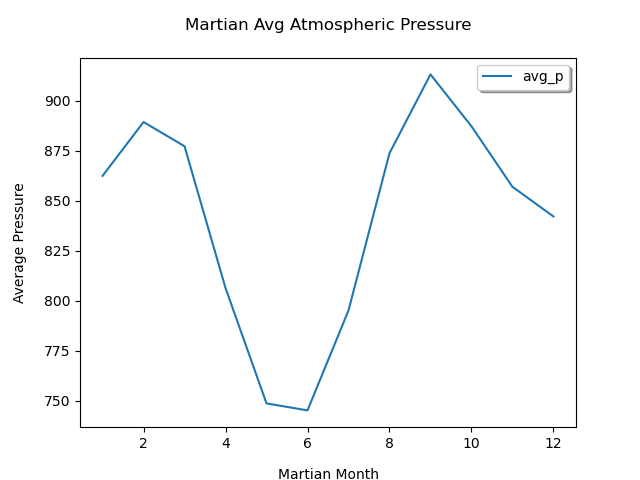
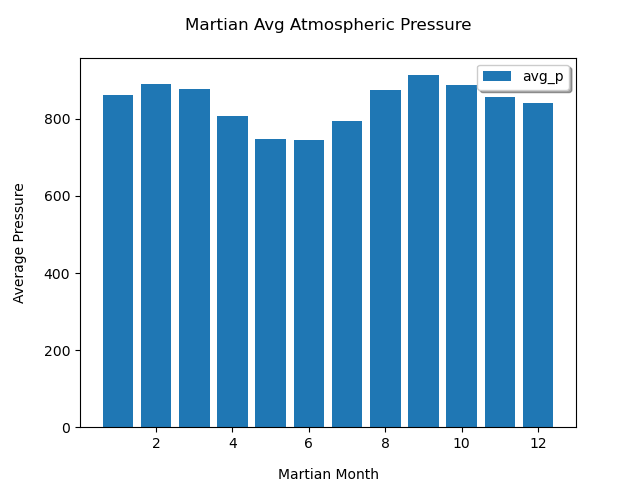
Final Updates

diff --git a/README.md b/README.md
@@ -24,6 +24,8 @@ In the folder *mars_web_analysis* are the completed challenge files.
 
 # **Results**
 
+*Deliverable 1: Mars News*
+
 Article titles and preview text were successfully scraped and stored into a pyton list. Below are the first three articles.
 
     [
@@ -40,6 +42,26 @@ Article titles and preview text were successfully scraped and stored into a pyto
             "preview": "The agency\u2019s Perseverance rover will establish the first sample depot on Mars."
     ]
 
+*Deliverable 2: Mars Weather*
+
+Two files are provided for this part of the challenge. One of them reads the table using pandas read.html to collect the data into a dataframe. The other uses a loop to iterate through the scraped data in order to create a python list and then dataframe.
+
+Graphs were then created and questions answered from the analysis.
+
+1. How many months exist on Mars? **12**
+2. How many Martian (and not Earth) days worth of data exist in the scraped dataset? **1867**
+3. What are the coldest and the warmest months on Mars (at the location of Curiosity)? To answer this question:
+    **The average minimum temperature on Mars is highest in month 8 at -68.38 and lowest in month 3 at -83.31.**
+    * Find the average the minimum daily temperature for all of the months.
+    * Plot the results as a bar chart. **See below**
+4. Which months have the lowest and the highest atmospheric pressure on Mars? To answer this question:
+    **Martian atmospheric pressure is highest in months 2 and 9, and lowest in month 6 as seen in the graph below.**
+    * Find the average the daily atmospheric pressure of all the months.
+    * Plot the results as a bar chart. **See below**
+5. About how many terrestrial (Earth) days exist in a Martian year? To answer this question: **Approximately 683**
+    * Consider how many days elapse on Earth in the time that Mars circles the Sun once.
+    * Visually estimate the result by plotting the daily minimum temperature. **See below**
+
 The average minimum temperature on Mars is highest in month 8 at -68.38 and lowest in month 3 at -83.31.
 
 ![Mars minimum temperature](mars_web_analysis/Output/martian_min_temp.png)
@@ -55,9 +77,6 @@ This graph was used to calculate the number of days in a Martian year. It is ass
 ![Total Temp Data](mars_web_analysis/Output/martian_min_temp_total.png)
 
 
-
 # **Comments and Thoughts**
 
-
-
-Overall, I enjoyed this challenge and learned a great deal.
+I learned a lot from this challenge. My biggest struggle was getting my table into a dataframe using a loop. It was super easy to just use the pd.read.html, but I struggled to get my loop right. Our TA Grace was super helpful, and gave me some guidance that totally opened my eyes. She shared a snippet of code that not only helped me with the challenge, but completely opened my eyes to loops and python lists. All of a sudden it came to me, and I totally got it. Everything from the beginning of class made so much more sense. I think I'm going to struggle far less with those loos in the future. Thank you Grace!!!!!
